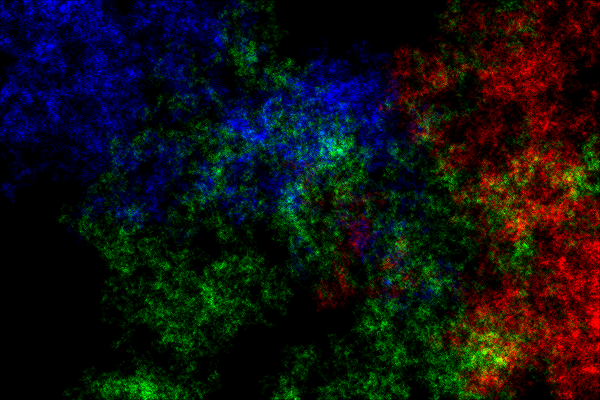
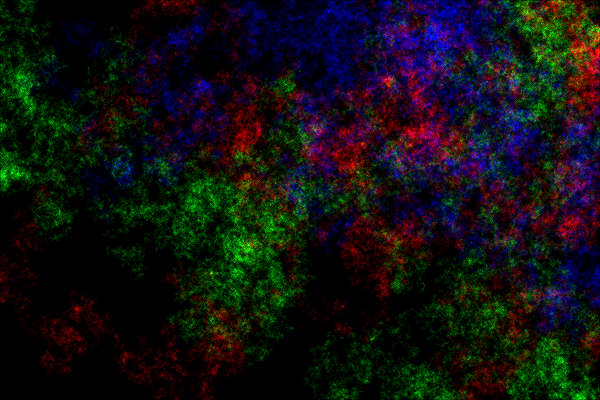
Improve color intensity map and support any colors

diff --git a/RgbRandomWalk.java b/RgbRandomWalk.java
@@ -17,12 +17,44 @@ public class RgbRandomWalk {
         }
     }
 
+    // Maps the number of steps into the range 0 to 255.
+    private static int colorMap(int stepCount) {
+        int[] multipliers = {8, 8, 4, 2};
+        int count = 16;
+        int value = 0;
+
+        for (int inc : multipliers) {
+            if (stepCount > count) {
+                value += count * inc;
+                stepCount -= count;
+            } else {
+                value += stepCount * inc;
+                stepCount = 0;
+            }
+        }
+
+        if (stepCount > 0) {
+            value += stepCount;
+        }
+        value = Math.min(value, 255);
+
+        return value;
+    }
+
     public static void main(String[] args) {
-        long start = System.currentTimeMillis();
         String fileName = "";
-        int width = 1920, height = 1080;
-        int increment = 8;
-        int steps = 6000000;
+        int width;
+        int height;
+        int steps;
+
+        // Colors for each of the random paths. Will generate a path for each
+        // color specified.
+        // Use RBG format like HTML, e.g. 0xRRGGBB where RR are two hex digits
+        // specifying the red value, GG specify green, and BB specify blue. Also
+        // can use builtin colors such as Color.BLUE, see documentation on
+        // java.awt.Color for details.
+        Color[] colors = {new Color(0x0000ff), new Color(0x00ff00), new Color(0xff0000)};
+
         String imgFormat = "png";
 
         if (args.length != 4) {
@@ -34,7 +66,6 @@ public class RgbRandomWalk {
                 width = Integer.parseInt(args[1], 10);
                 height = Integer.parseInt(args[2], 10);
                 steps = Integer.parseInt(args[3], 10);
-
             } catch (NumberFormatException e) {
                 System.out.println("Usage: java RgbRandomWalk <imagefilepath> <width> <height> <steps>");
                 System.out.println("Error: Invalid number.");
@@ -48,54 +79,52 @@ public class RgbRandomWalk {
             }
         }
 
-        BufferedImage img;
-        Color c;
-        // Good parameters are 1920 x 1080, intensity increment 8, and steps = 6000000.
+        int[] posX = new int[colors.length];
+        int[] posY = new int[colors.length];
+        int[][][] visitCount = new int[width][height][colors.length];
 
-        int rX = width / 2, rY = height / 2;
-        int gX = width / 2, gY = height / 2;
-        int bX = width / 2, bY = height / 2;
-        int r = 0, g = 0, b = 0;
-        // int sRGB, other;
-
-
-        img = new BufferedImage(width, height, BufferedImage.TYPE_INT_RGB);
-
-        rX = width / 2;
-        rY = height / 2;
-        gX = width / 2;
-        gY = height / 2;
-        bX = width / 2;
-        bY = height / 2;
+        for (int i = 0; i < colors.length; i++) {
+            posX[i] = width / 2;
+            posY[i] = height / 2;
+        }
 
         for (int j = 0; j < steps; j++) {
-            rX = step(rX, width);
-            rY = step(rY, height);
-            gX = step(gX, width);
-            gY = step(gY, height);
-            bX = step(bX, width);
-            bY = step(bY, height);
+            for (int i = 0; i < colors.length; i++) {
+                posX[i] = step(posX[i], width);
+                posY[i] = step(posY[i], height);
 
-            c = new Color(img.getRGB(rX, rY));
-            img.setRGB(rX, rY, (c.getRGB() & 0xff00ffff) | (Math.min(c.getRed() + increment, 255) << 16));
-
-            c = new Color(img.getRGB(gX, gY));
-            img.setRGB(gX, gY, (c.getRGB() & 0xffff00ff) | (Math.min(c.getGreen() + increment, 255) << 8));
-
-            c = new Color(img.getRGB(bX, bY));
-            img.setRGB(bX, bY, (c.getRGB() & 0xffffff00) | (Math.min(c.getBlue() + increment, 255)));
+                visitCount[posX[i]][posY[i]][i]++;
+            }
         }
+        int[] pixels = new int[width * height];
+
+        for (int i = 0; i < width; i++) {
+            for (int j = 0; j < height; j++) {
+                int c = Color.BLACK.getRGB();
+                float[] rgb = new float[3];
+                float[] components = new float[3];
+                for (int k = 0; k < colors.length; k++) {
+                    float value = colorMap(visitCount[i][j][k]) / 256.0f;
+                    colors[k].getColorComponents(components);
+                    for (int m = 0; m < 3; m++) {
+                        rgb[m] += components[m] * value;
+                    }
+                }
+                for (int m = 0; m < 3; m++) {
+                    rgb[m] = Math.min(rgb[m], 1.0f);
+                }
+                pixels[i + width * j] = new Color(rgb[0], rgb[1], rgb[2]).getRGB();
+            }
+        }
+
+        BufferedImage img = new BufferedImage(width, height, BufferedImage.TYPE_INT_RGB);
+        img.setRGB(0, 0, width, height, pixels, 0, width);
 
         try {
             File outputfile = new File(fileName);
             ImageIO.write(img, imgFormat, outputfile);
-        } catch (Exception e) {
-            System.out.println("Error: cannot open the file.");
-            System.exit(0);
+        } catch (IOException e) {
+            System.err.println("Error: cannot open the file" + fileName);
         }
-
-
-        long time = System.currentTimeMillis()-start;
-        System.out.printf("Time used: %dm, %ds, %dms.%n", time / 60000, (time / 1000) % 60, time % 1000);
     }
 }

diff --git a/README.md b/README.md
@@ -1,21 +1,23 @@
-# RgbRandomWalk
-Creates fractal-like images with three 2D random walks in red, green, and blue.
+# Random Walk Wallpaper Generator
+Generate hazy fractal-like wallpaper images by simulating random walks in different colors.
 
-The intensity of a pixel is proportional (until it reaches the brightest value) to the number of times it is visited. See [Wikipedia](https://en.wikipedia.org/wiki/Random_walk) for more info on random walks.
-
-Made just for fun.
-
+The intensity of a pixel corresponds to the number of times it is visited during each random walk. See [Wikipedia](https://en.wikipedia.org/wiki/Random_walk) for more info on random walks.
 
 ## Usage
-`java RgbRandomWalk <imagefilepath> <width> <height> <steps>`
+```
+javac RgbRandomWalk.java
+java RgbRandomWalk <imagefilepath> <width> <height> <steps>
+```
 
-`imagefilepath` is the image file to write. Output in in PNG format regardless of specified extension. This can be changed in source file. **Note: will overwrite any existing file. Use caution.**
+The `<imagefilepath>` parameter is the filename of the PNG image to output. Output is in PNG format regardless of specified extension. This can be changed in source file. **Note: will overwrite any existing file. Use caution.**
 
-`width` and `height` are the size of image.
+`width` and `height` specify the size of image.
 
-`steps` is the number of steps to take for each random walk.
+`steps` specifies the number of steps to take for each random walk.
 
-## Examples
+The number of random walks and corresponding colors can be changed by editing the RgbRandomWalk.java file.
+
+## Example output
 
 ![Example 1](example1.png?raw=true)
 
